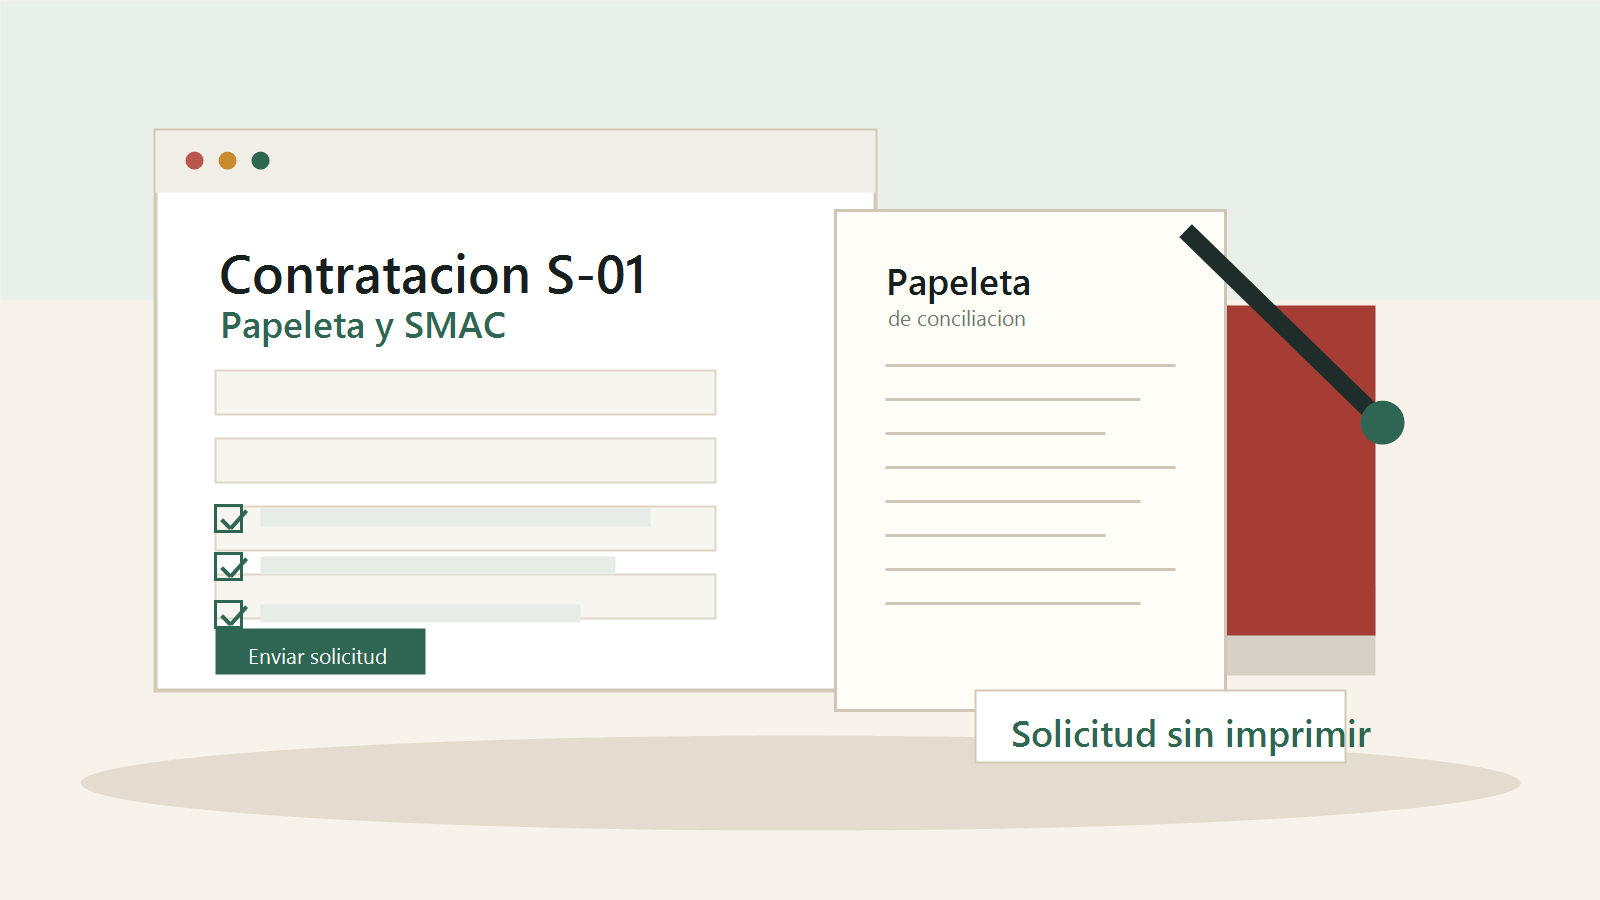
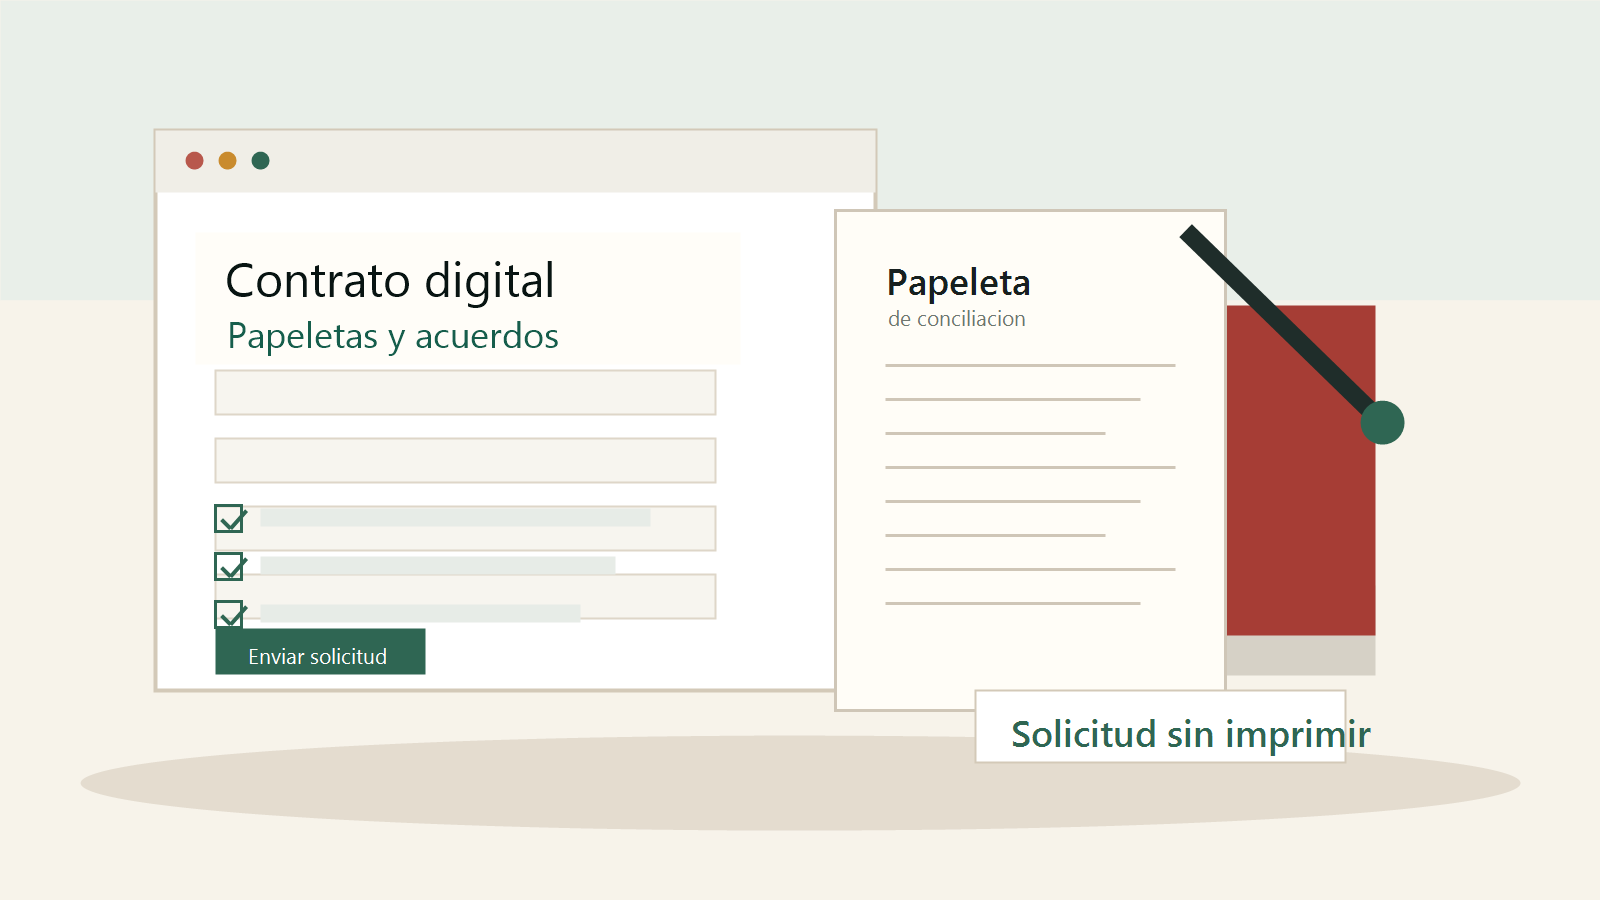
Remove service codes from client-facing flow

Changed region(s): [[0.125, 0.28, 0.4062, 0.4044]]

diff --git a/app.js b/app.js
@@ -61,7 +61,6 @@ const REPRESENTATION_REGIONS = {
 
 const SERVICES = {
   papeleta: {
-    code: "S-03",
     title: "Redaccion de papeleta de conciliacion laboral",
     titleHtml: "Papeleta de conciliacion laboral",
     previewHeading: "HOJA DE ENCARGO - REDACCION DE PAPELETA",
@@ -74,7 +73,7 @@ const SERVICES = {
     filenameSlug: "papeleta-conciliacion",
     serviceZone: "Espana. Servicio documental de redaccion de papeleta de conciliacion laboral para que el Cliente la presente ante el organo administrativo competente.",
     previewZone: "Espana. Redaccion documental de papeleta de conciliacion laboral. No incluye representacion ni asistencia presencial.",
-    matterService: "S-03 redaccion de papeleta de conciliacion laboral para su presentacion por el Cliente ante el organo administrativo competente",
+    matterService: "Redaccion de papeleta de conciliacion laboral para su presentacion por el Cliente ante el organo administrativo competente",
     objectClause(employer) {
       return `El Cliente encarga al Profesional la redaccion de una papeleta de conciliacion laboral frente a la empresa ${employer}, con base en la informacion y documentacion facilitada por el Cliente. El servicio se limita al analisis documental inicial, ordenacion de hechos, cuantificacion orientativa cuando proceda y redaccion del escrito para su presentacion por el Cliente ante el organo administrativo de conciliacion competente. No incluye presentacion administrativa, representacion presencial, asistencia al acto de conciliacion, defensa judicial, representacion procesal ni garantia de resultado, salvo acuerdo expreso adicional.`;
     },
@@ -83,7 +82,6 @@ const SERVICES = {
     },
   },
   smac: {
-    code: "S-01",
     title: "Papeleta, preparacion y representacion voluntaria en conciliacion laboral",
     titleHtml: "Representacion en conciliacion laboral",
     previewHeading: "HOJA DE ENCARGO - REPRESENTACION EN CONCILIACION",
@@ -94,9 +92,10 @@ const SERVICES = {
     buttonText: "Contratar revision y SMAC por 150 €",
     priceDescription: "No pagas provision inicial: el pago se realiza por transferencia o Bizum una vez prestado el servicio.",
     filenameSlug: "smac",
+    requiresRepresentationRegion: true,
     serviceZone: REPRESENTATION_REGIONS.madrid.serviceZone,
     previewZone: REPRESENTATION_REGIONS.madrid.previewZone,
-    matterService: "S-01 papeleta de conciliacion, presentacion y representacion voluntaria en asunto tramitable ante el organo de conciliacion disponible",
+    matterService: "Papeleta de conciliacion, presentacion y representacion voluntaria en asunto tramitable ante el organo de conciliacion disponible",
     objectClause(employer, region = REPRESENTATION_REGIONS.madrid) {
       return `El Cliente encarga al Profesional la redaccion, presentacion de la papeleta de conciliacion laboral y la representacion voluntaria en el acto de conciliacion administrativa ante ${region.organ} contra la empresa ${employer}. El servicio esta limitado a asuntos tramitables en la comunidad autonoma seleccionada: ${region.label}. A tal efecto, el Cliente facilitara al Profesional la representacion necesaria, ya sea compareciendo presencialmente para otorgar dicha representacion o mediante el correspondiente poder notarial, con anterioridad a la fecha del acto de conciliacion.`;
     },
@@ -105,7 +104,6 @@ const SERVICES = {
     },
   },
   inspeccion: {
-    code: "S-02",
     title: "Denuncia ante Inspeccion de Trabajo y Seguridad Social",
     titleHtml: "Denuncia ante Inspeccion de Trabajo",
     previewHeading: "HOJA DE ENCARGO - DENUNCIA A INSPECCION DE TRABAJO",
@@ -118,7 +116,7 @@ const SERVICES = {
     filenameSlug: "denuncia-inspeccion-trabajo",
     serviceZone: "Espana. Servicio documental de preparacion y, cuando proceda, presentacion telematica de denuncia ante la Inspeccion de Trabajo y Seguridad Social.",
     previewZone: "Servicio documental de preparacion y, cuando proceda, presentacion administrativa ante la Inspeccion de Trabajo y Seguridad Social.",
-    matterService: "S-02 preparacion documental y, cuando proceda, presentacion de denuncia ante la Inspeccion de Trabajo y Seguridad Social",
+    matterService: "Preparacion documental y, cuando proceda, presentacion de denuncia ante la Inspeccion de Trabajo y Seguridad Social",
     objectClause(employer) {
       return `El Cliente encarga al Profesional la preparacion documental y, cuando proceda, la presentacion telematica de una denuncia ante la Inspeccion de Trabajo y Seguridad Social en relacion con hechos laborales imputables a la empresa ${employer}. El servicio se limita al analisis documental inicial, ordenacion de hechos, redaccion de la denuncia y orientacion sobre la documentacion necesaria. No incluye defensa judicial, representacion procesal, garantia de actuacion inspectora, seguimiento indefinido del expediente ni intervencion en actuaciones inspectoras posteriores salvo acuerdo expreso adicional.`;
     },
@@ -127,7 +125,6 @@ const SERVICES = {
     },
   },
   bancario: {
-    code: "S-04",
     title: "Gestion extrajudicial bancaria sobre prestamos o creditos abusivos",
     titleHtml: "Gestion extrajudicial bancaria",
     previewHeading: "HOJA DE ENCARGO - GESTION EXTRAJUDICIAL BANCARIA",
@@ -140,7 +137,7 @@ const SERVICES = {
     filenameSlug: "gestion-extrajudicial-bancaria",
     serviceZone: "Espana. Servicio documental y de gestion extrajudicial para consumidores sobre prestamos, creditos o tarjetas con posibles intereses o condiciones abusivas.",
     previewZone: "Espana. Gestion extrajudicial bancaria para consumidores. No incluye defensa judicial, mediacion oficial ni asesoramiento financiero.",
-    matterService: "S-04 gestion extrajudicial bancaria para consumidores sobre prestamos, creditos o tarjetas con posibles condiciones abusivas",
+    matterService: "Gestion extrajudicial bancaria para consumidores sobre prestamos, creditos o tarjetas con posibles condiciones abusivas",
     objectClause(employer) {
       return `El Cliente encarga al Profesional la preparacion documental y gestion extrajudicial frente a la entidad ${employer} en relacion con un prestamo, credito, tarjeta u otro producto de financiacion con posibles intereses, comisiones o condiciones abusivas. El servicio puede incluir revision documental inicial, ordenacion de importes y hechos, redaccion de reclamacion extrajudicial, propuesta de acuerdo y comunicaciones orientadas a alcanzar una solucion negociada. Podra intervenir un colaborador externo de apoyo documental o negociacion bajo coordinacion del Profesional. No incluye mediacion oficial regulada, asesoramiento financiero o de inversion, defensa judicial, representacion procesal, garantia de acuerdo, garantia de devolucion de cantidades ni valoracion definitiva de nulidad, usura o abusividad, que corresponde a los tribunales cuando exista controversia.`;
     },
@@ -194,12 +191,16 @@ function selectedRepresentationRegionFromForm() {
   return representationRegionFromValue(selected ? selected.value : "madrid");
 }
 
+function serviceRequiresRepresentationRegion(service) {
+  return Boolean(service.requiresRepresentationRegion);
+}
+
 function zoneForService(service, region = REPRESENTATION_REGIONS.madrid) {
-  return service.code === "S-01" ? region.serviceZone : service.serviceZone;
+  return serviceRequiresRepresentationRegion(service) ? region.serviceZone : service.serviceZone;
 }
 
 function previewZoneForService(service, region = REPRESENTATION_REGIONS.madrid) {
-  return service.code === "S-01" ? region.previewZone : service.previewZone;
+  return serviceRequiresRepresentationRegion(service) ? region.previewZone : service.previewZone;
 }
 
 function submissionReference() {
@@ -417,7 +418,7 @@ function buildSummary(data, paymentInfo = null) {
   const service = selectedServiceFromData(data);
   const representationRegion = representationRegionFromData(data);
   const serviceZone = zoneForService(service, representationRegion);
-  const representationRegionLine = service.code === "S-01"
+  const representationRegionLine = serviceRequiresRepresentationRegion(service)
     ? [`Comunidad autonoma seleccionada para representacion: ${representationRegion.label}`, ""]
     : [];
   const generatedAt = new Intl.DateTimeFormat("es-ES", {
@@ -454,7 +455,7 @@ function buildSummary(data, paymentInfo = null) {
 
   return [
     "CONTRATO DE PRESTACION DE SERVICIOS - HOJA DE ENCARGO",
-    `Servicio contratado: ${service.code} - ${service.title}`,
+    `Servicio contratado: ${service.title}`,
     ...representationRegionLine,
     "",
     `Fecha del contrato: ${generatedAt}`,
@@ -487,7 +488,7 @@ function buildSummary(data, paymentInfo = null) {
     "",
     "ACEPTACION ELECTRONICA:",
     `Firmado electronicamente por el Cliente: ${valueOf(data, "nombre")}`,
-    `Servicio contratado: ${service.code} - ${service.title}`,
+    `Servicio contratado: ${service.title}`,
     `Acepta condiciones de servicio, privacidad y precio cerrado de ${service.price}: ${yesNo(data, "aceptaCondiciones")}`,
     `Solicita inicio inmediato del servicio: ${yesNo(data, "inicioInmediato")}`,
     paymentInfo ? `Metodo de Pago: Pagado mediante ${paymentInfo.method.toUpperCase()} (${paymentInfo.method === "paypal" ? "ID de Transaccion: " + paymentInfo.transactionId : "Telefono emisor: " + paymentInfo.telefono + ", Concepto: " + paymentInfo.concepto})` : "Metodo de Pago: Pago posterior (Bizum / Transferencia tras el servicio)"
@@ -522,11 +523,10 @@ async function buildPayload(data, summary, contractPdf) {
       pageOrigin: window.location.origin,
       summarySha256,
       contractPdfSha256: contractPdf.sha256,
-      serviceCode: service.code,
       serviceTitle: service.title,
       contractPlace: "Madrid",
       serviceZone,
-      representationRegion: service.code === "S-01" ? representationRegion.label : null,
+      representationRegion: serviceRequiresRepresentationRegion(service) ? representationRegion.label : null,
       governingLawAndForum: "Ley espanola. Para clientes consumidores, juzgados y tribunales legalmente competentes. Cuando la competencia territorial sea legalmente disponible, fuero de Madrid.",
       acceptedConditionsText: `Acepto las condiciones del servicio, la politica de privacidad, el precio cerrado de ${service.price}, sin provision de fondos inicial y con pago una vez prestado el servicio.`,
       immediateStartText: data.get("inicioInmediato")
@@ -553,9 +553,8 @@ async function buildPayload(data, summary, contractPdf) {
     },
     matter: {
       employer: valueOf(data, "empresa"),
-      serviceCode: service.code,
       service: service.matterService,
-      representationRegion: service.code === "S-01" ? representationRegion.label : null,
+      representationRegion: serviceRequiresRepresentationRegion(service) ? representationRegion.label : null,
       price: service.price,
       payment: "sin provision de fondos inicial; transferencia o Bizum una vez prestado el servicio",
     },
@@ -569,9 +568,8 @@ async function buildPayload(data, summary, contractPdf) {
 function evidenceSubject(evidence) {
   const ref = evidence.reference.slice(0, 8).toUpperCase();
   const pdfHash = evidence.contractPdfSha256.slice(0, 16).toUpperCase();
-  const serviceCode = evidence.serviceCode || "S-03";
 
-  return `${serviceCode} REF ${ref} PDF ${pdfHash}`;
+  return `REF ${ref} PDF ${pdfHash}`;
 }
 
 async function sendEncryptedSubmission(encryptedSubmission, evidence) {
@@ -627,7 +625,7 @@ function setLinks(summary, data, evidence = null) {
   const waMessage =
     "*Contrato Formalizado*\n\n" +
     `Hola Daniel, acabo de formalizar el contrato desde la web.\n\n` +
-    `Servicio: ${service.code} - ${service.title}\n` +
+    `Servicio: ${service.title}\n` +
     (evidence ? `Referencia: ${evidence.reference}\n` : "") +
     "Quedo a la espera de que contactes conmigo. ¡Un saludo!";
 
@@ -735,7 +733,6 @@ async function processContractSubmission(paymentInfo = null) {
         reference: submissionReference(),
         contractPdfSha256: pdfSha256,
         summarySha256: summarySha256,
-        serviceCode: service.code,
       };
       if (paymentInfo) {
         fakeEvidence.paymentInfo = paymentInfo;